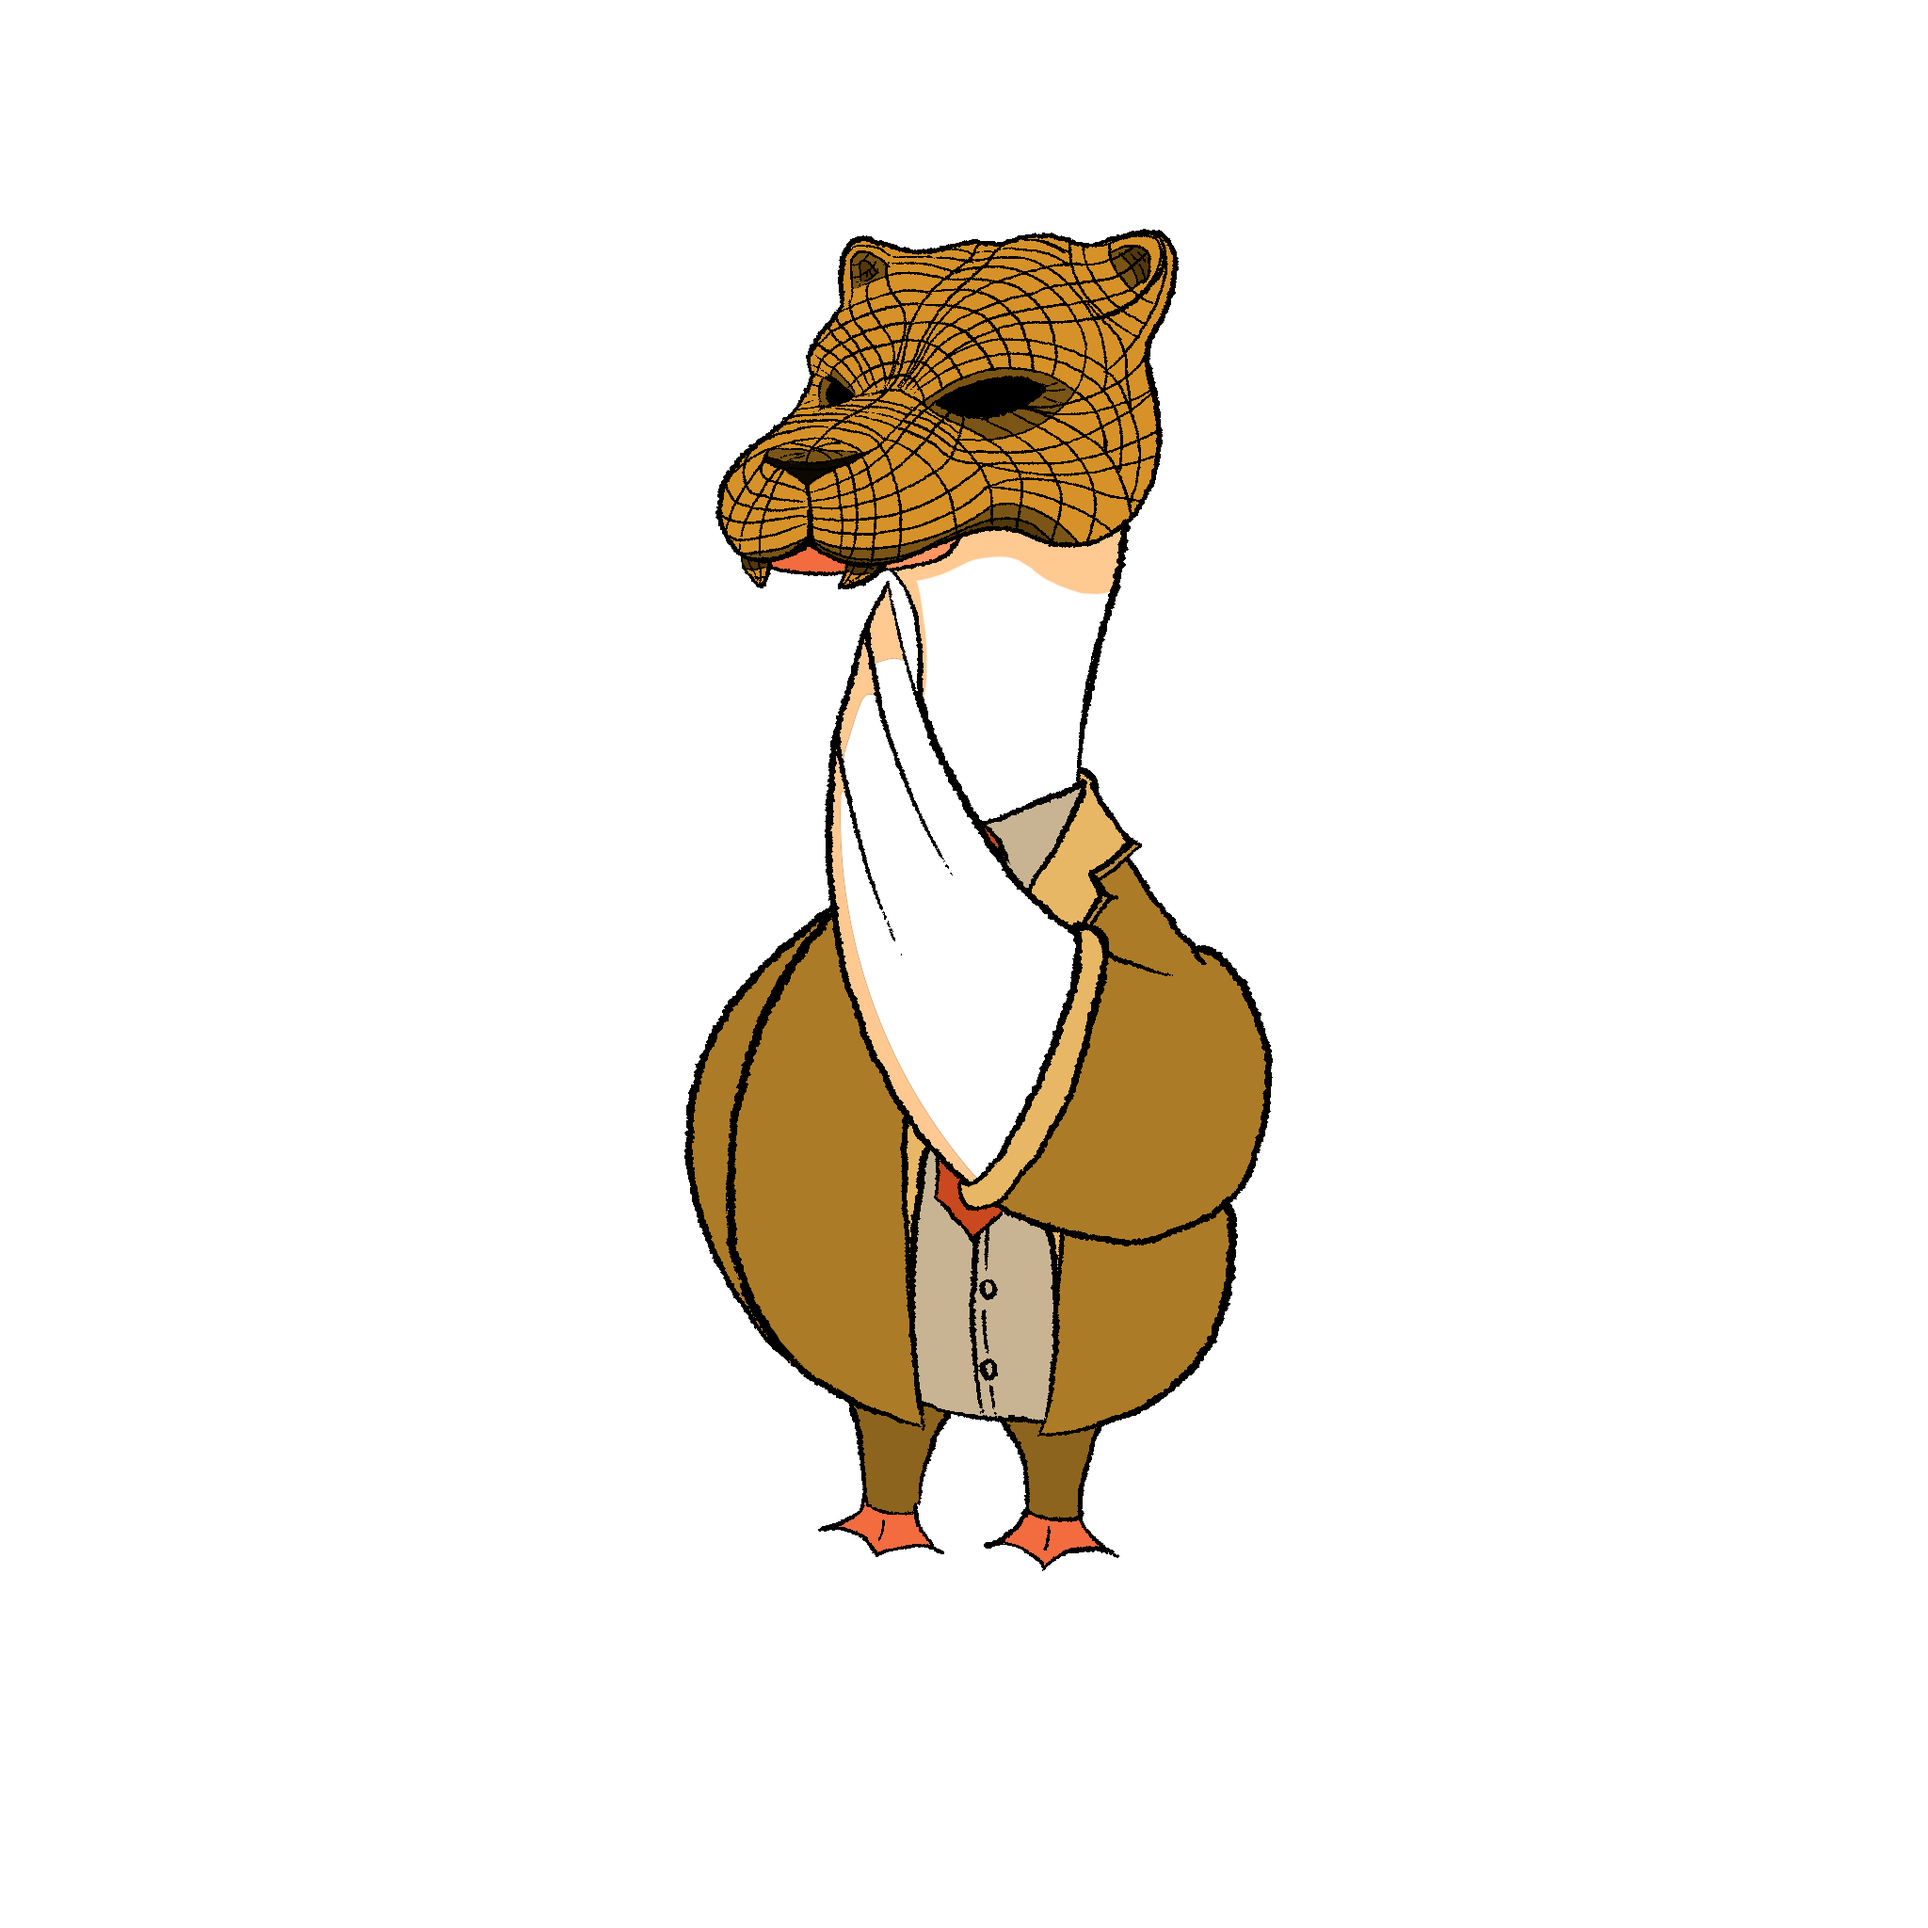
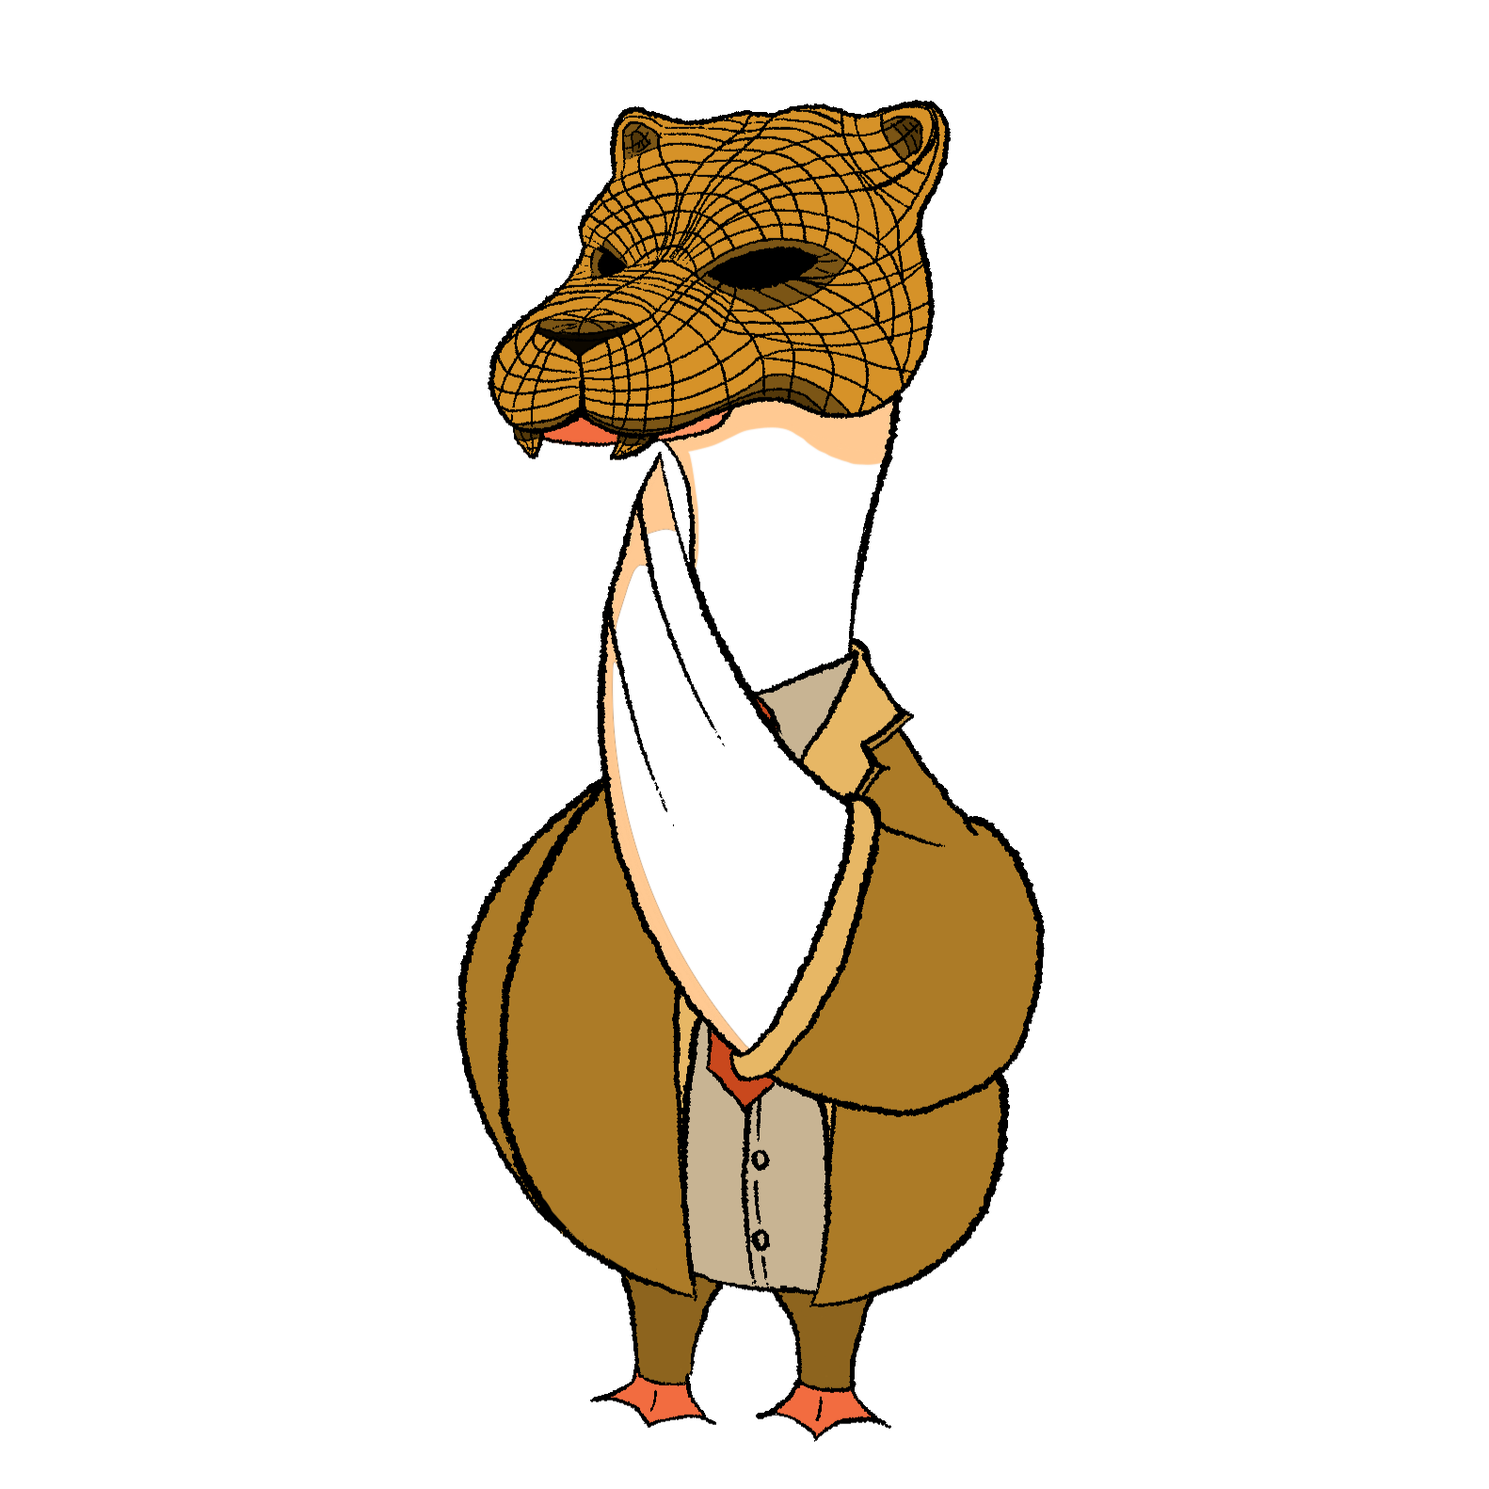
feat: placeholder in requirements

Changed region(s): [[0.3097, 0.0619, 0.7124, 0.9602]]

diff --git a/apps/web/src/components/landing/requirement.tsx b/apps/web/src/components/landing/requirement.tsx
@@ -7,15 +7,15 @@ import FadeObserverDiv from "@/components/landing/fade-div";
 
 const requirements = [
   {
-    imageSrc: "/static/image/free-duck.svg",
+    imageSrc: "/static/image/placeholder/main-char.png",
     text: `นักเรียนที่กำลังศึกษาอยู่ในระดับชั้น\nมัธยมศึกษาปีที่ 4-5 หรือเทียบเท่า\nในปีการศึกษา 2567 (GPAX 3.00 ขึ้นไป)`,
   },
   {
-    imageSrc: "/static/image/free-duck.svg",
+    imageSrc: "/static/image/placeholder/frontman-yellow.png",
     text: `ศึกษาเกี่ยวกับสายวิทยาศาสตร์ คณิตศาสตร์ หรือคอมพิวเตอร์\n(หรือสายอื่น ๆ ที่เกี่ยวข้องกับ\nคอมพิวเตอร์และเทคโนโลยี)`,
   },
   {
-    imageSrc: "/static/image/free-duck.svg",
+    imageSrc: "/static/image/placeholder/vip.png",
     text: `มีความสนใจในด้านคอมพิวเตอร์\nหรือภาควิชาคอมพิวเตอร์\nโดยไม่จำเป็นต้องมีพื้นฐาน\nการเขียนโปรแกรม`,
   },
   {
